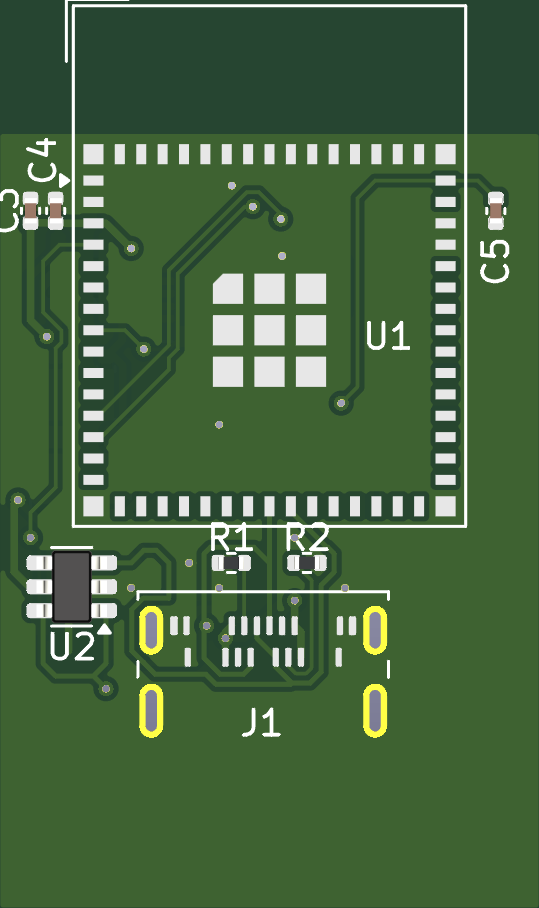
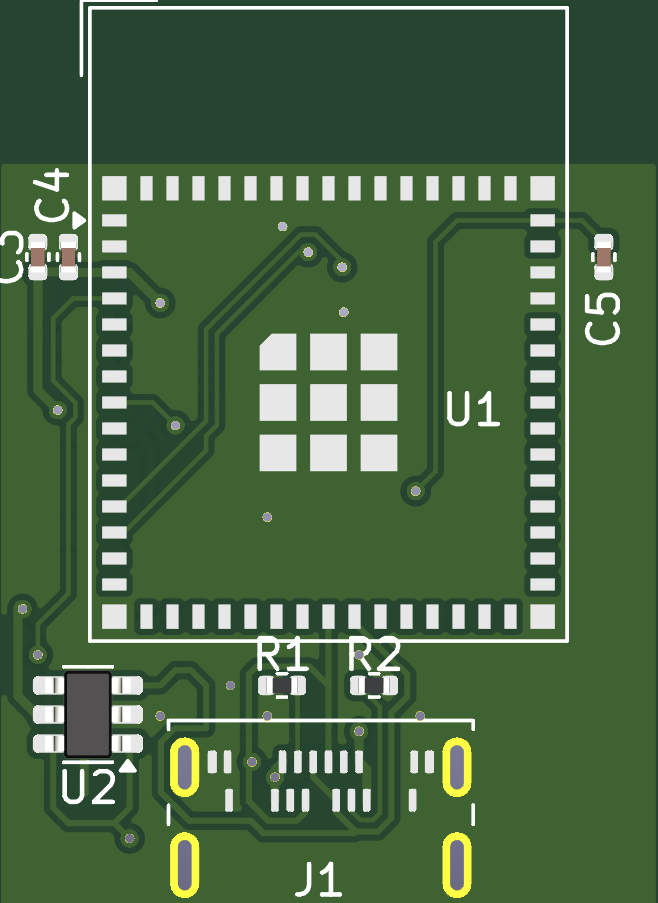
Initial commit: ESP32-S3 + MPU-6050 board

diff --git a/README.md b/README.md
@@ -11,7 +11,7 @@ A small custom board built around the ESP32-S3-MINI-1 module and an MPU-6050 6-a
 - Power from USB Type-C (5 V) or an external 3.7 V LiPo battery
 - MPU-6050 accelerometer and gyroscope on I2C
 - USB ESD protection (USBLC6-2SC6)
-- 2-layer PCB, about [W x H] mm, with parts on both sides
+- 2-layer PCB, about [22 x 30 ] mm, with parts on both sides
 
 ## Schematic
 
